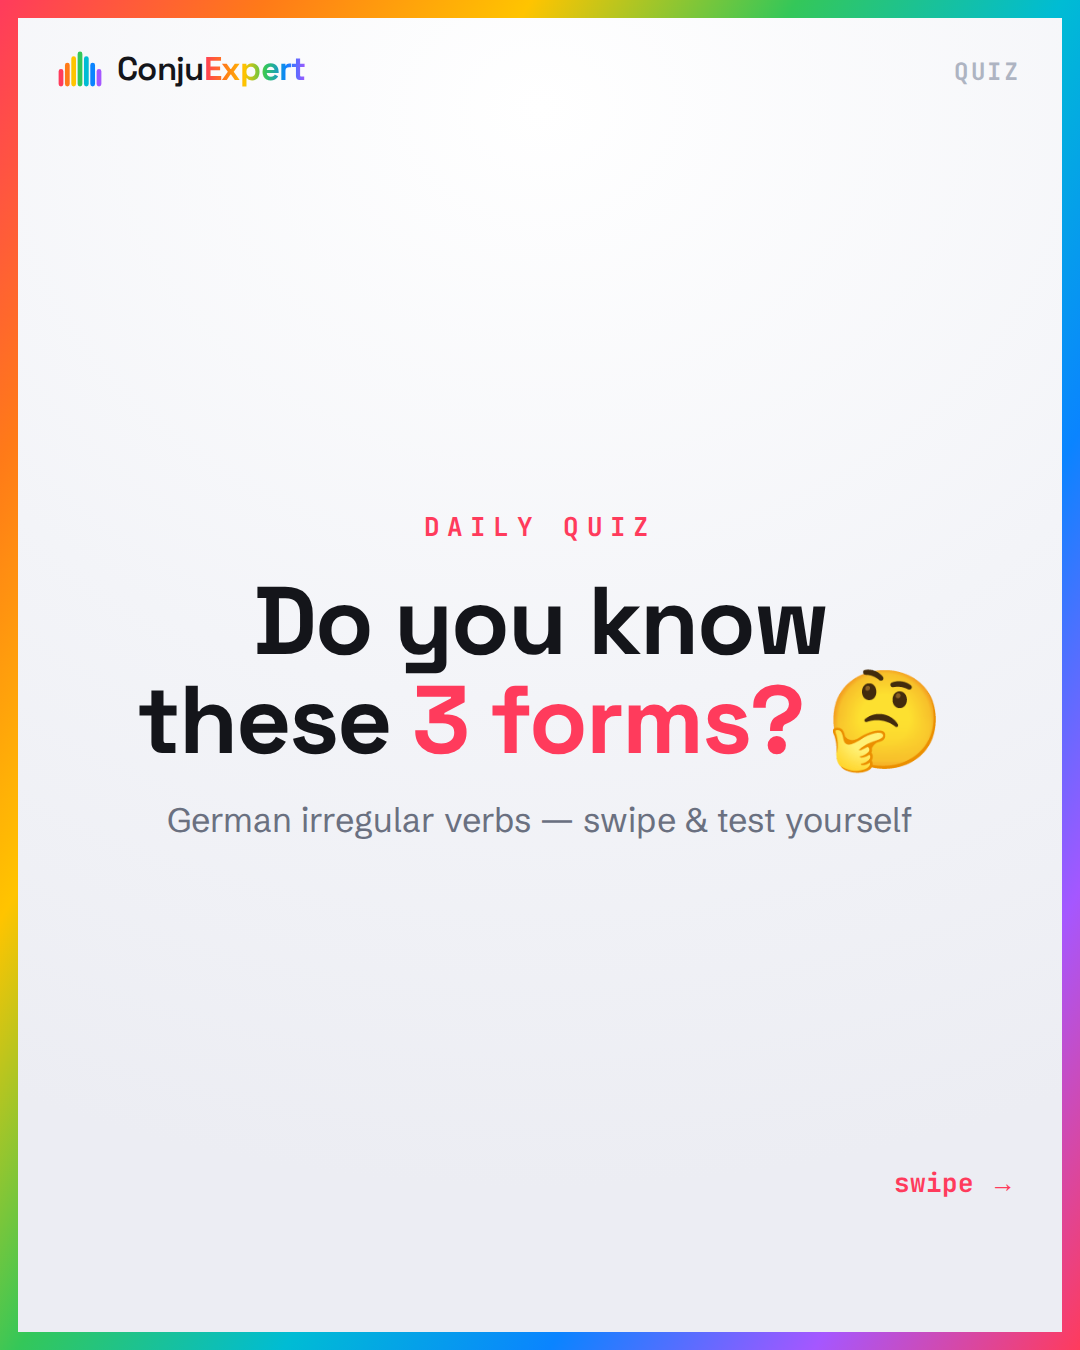
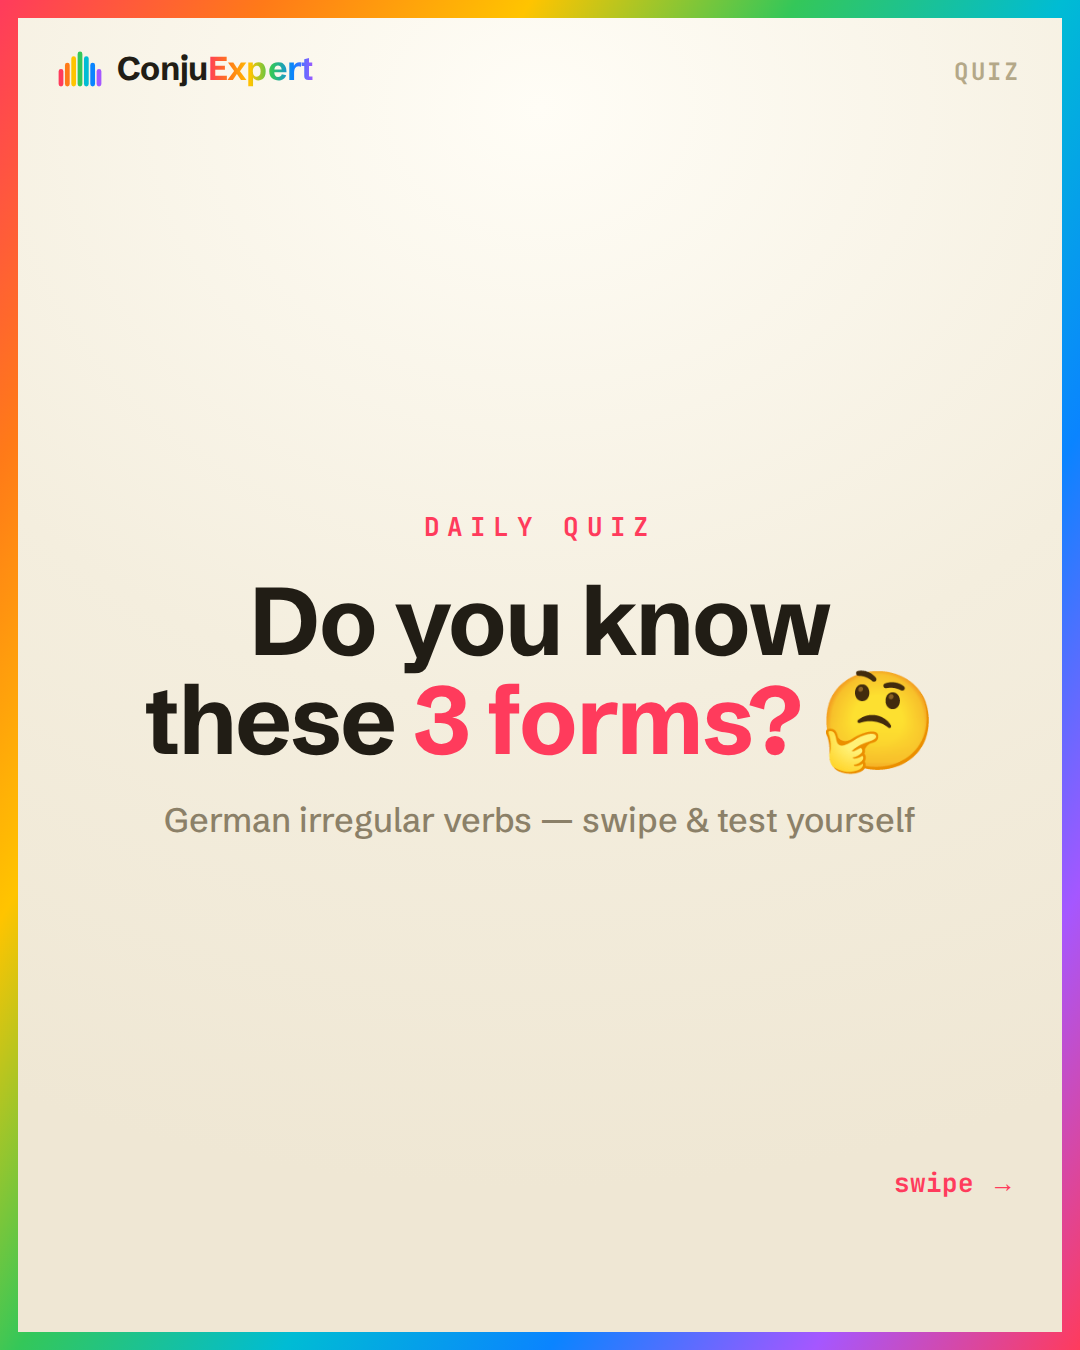
Quiz carousels re-skinned to sand brand (rainbow-edge cards, warm ink, red accent) + re-render 3 sets
Claude-Session: https://claude.ai/code/session_012MsfUjoW2VLVF4WKvfLHyS

diff --git a/scripts/social/quiz-carousel/template.html b/scripts/social/quiz-carousel/template.html
@@ -3,50 +3,52 @@
 @font-face{font-family:'SB';src:url('assets/schib.woff2') format('woff2');font-weight:400 700;font-display:block}
 @font-face{font-family:'JB';src:url('assets/mono.woff2') format('woff2');font-weight:400 700;font-display:block}
 *{margin:0;padding:0;box-sizing:border-box}
-:root{--ink:#14151a;--red:#ff3b5c;--rainbow:linear-gradient(90deg,#ff3b5c,#ff7a18,#ffc400,#34c759,#0a84ff,#a557ff);
+:root{--ink:#211d15;--muted:#8b8068;--muted2:#b4a888;--surface:#fffdf6;--surface-2:#ece3d0;--bg:#f4eede;--border:rgba(60,48,24,.14);
+  --red:#ff3b5c;--rainbow:linear-gradient(90deg,#ff3b5c,#ff7a18,#ffc400,#34c759,#0a84ff,#a557ff);
   --rainbow-full:linear-gradient(120deg,#ff3b5c,#ff7a18,#ffc400,#34c759,#00bcd4,#0a84ff,#a557ff,#ff3b5c)}
-body{background:#e9eaf0;font-family:'SB',sans-serif}
+body{background:var(--bg);font-family:'SB',sans-serif}
 #stage{display:flex;flex-wrap:wrap;gap:20px;padding:20px}
 .slide{position:relative;width:1080px;height:1350px;overflow:hidden;background:
-  radial-gradient(120% 80% at 50% 8%,#fff 0%,#f3f4f8 55%,#ecedf3 100%);display:flex;flex-direction:column;align-items:center;justify-content:center;text-align:center;padding:0 96px}
+  radial-gradient(120% 80% at 50% 8%,#fffdf6 0%,#f4eede 55%,#efe7d4 100%);display:flex;flex-direction:column;align-items:center;justify-content:center;text-align:center;padding:0 96px}
 .rframe{position:absolute;inset:0;z-index:20;pointer-events:none;padding:18px;background:var(--rainbow-full);background-size:100% 100%;
   -webkit-mask:linear-gradient(#000 0 0) content-box,linear-gradient(#000 0 0);-webkit-mask-composite:xor;mask-composite:exclude;
   filter:drop-shadow(0 0 12px rgba(255,122,24,.5)) drop-shadow(0 0 24px rgba(10,132,255,.4))}
 .logo{position:absolute;top:48px;left:56px;display:flex;align-items:center;gap:13px;z-index:8}
 .logo .mark{width:48px;height:38px}
-.logo .w{font-family:'SG';font-weight:600;font-size:33px;letter-spacing:-.02em;color:var(--ink)}
-.logo .w b{font-weight:700;background:var(--rainbow);-webkit-background-clip:text;background-clip:text;color:transparent}
-.pg{position:absolute;top:56px;right:60px;z-index:8;font-family:'JB';font-weight:700;font-size:24px;letter-spacing:.1em;color:#aeb4c2}
+.logo .w{font-family:'SB';font-weight:700;font-size:33px;letter-spacing:-.02em;color:var(--ink)}
+.logo .w b{font-weight:800;background:var(--rainbow);-webkit-background-clip:text;background-clip:text;color:transparent}
+.pg{position:absolute;top:56px;right:60px;z-index:8;font-family:'JB';font-weight:700;font-size:24px;letter-spacing:.1em;color:var(--muted2)}
 .eyebrow{font-family:'JB';font-weight:700;font-size:26px;letter-spacing:.28em;text-transform:uppercase;color:var(--red);margin-bottom:28px}
 .signoff{position:absolute;left:0;right:0;bottom:74px;z-index:8;text-align:center;font-family:'JB';font-weight:700;font-size:29px;color:var(--ink)}
-.signoff .app{background:var(--ink);color:#fff;padding:9px 20px;border-radius:999px}
+.signoff .app{background:var(--ink);color:var(--surface);padding:9px 20px;border-radius:999px}
 .swipe{position:absolute;right:64px;bottom:150px;z-index:8;font-family:'JB';font-weight:700;font-size:26px;color:var(--red)}
 /* intro */
-h1{font-family:'SG';font-weight:700;font-size:96px;line-height:1.03;letter-spacing:-.02em;color:var(--ink)}
+h1{font-family:'SB';font-weight:800;font-size:96px;line-height:1.03;letter-spacing:-.02em;color:var(--ink)}
 h1 .r{color:var(--red)}
-.sub{font-family:'SB';font-size:34px;color:#6a7080;margin-top:30px}
-/* quiz card (mirrors the app) */
-.qcard{width:820px;background:#fff;border-radius:34px;padding:56px 48px;box-shadow:0 34px 80px -26px rgba(20,22,30,.45);border-top:10px solid var(--red)}
-.asked{font-family:'SB';font-size:34px;color:#8890a0}
+.sub{font-family:'SB';font-weight:500;font-size:34px;color:var(--muted);margin-top:30px}
+/* quiz card (mirrors the app) — sand surface, rainbow top edge, red accents */
+.qcard{position:relative;width:820px;background:var(--surface);border:1px solid var(--border);border-radius:34px;padding:64px 48px 56px;box-shadow:0 34px 80px -26px rgba(70,55,25,.4);overflow:hidden}
+.qcard::before,.acard::before{content:"";position:absolute;top:0;left:0;right:0;height:10px;background:var(--rainbow)}
+.asked{font-family:'SB';font-weight:500;font-size:34px;color:var(--muted)}
 .asked b{color:var(--red);font-weight:700}
-.verb{font-family:'SG';font-weight:700;font-size:104px;letter-spacing:-.02em;color:var(--ink);margin:30px 0 18px}
-.hint{font-family:'JB';font-weight:700;font-size:26px;color:#aeb4c2}
-.think{font-family:'SG';font-weight:700;font-size:46px;color:var(--red);margin-top:34px}
-.langs{margin:22px 0 8px;border-bottom:2px solid #f0f1f5;padding-bottom:26px;display:flex;flex-direction:column;gap:13px;text-align:left}
-.langs .cap{font-family:'JB';font-weight:700;font-size:20px;letter-spacing:.14em;text-transform:uppercase;color:#aeb4c2;margin-bottom:4px}
-.langs .lrow{font-family:'SB';font-size:27px;color:#8890a0;display:flex;align-items:center;gap:14px}
-.langs .chip{font-family:'JB';font-weight:700;font-size:20px;color:var(--ink);background:#f3f4f8;border-radius:8px;padding:5px 11px;min-width:52px;text-align:center}
+.verb{font-family:'SB';font-weight:800;font-size:104px;letter-spacing:-.02em;color:var(--ink);margin:30px 0 18px}
+.hint{font-family:'JB';font-weight:700;font-size:26px;color:var(--muted2)}
+.think{font-family:'SB';font-weight:800;font-size:46px;color:var(--red);margin-top:34px}
+.langs{margin:22px 0 8px;border-bottom:2px solid var(--border);padding-bottom:26px;display:flex;flex-direction:column;gap:13px;text-align:left}
+.langs .cap{font-family:'JB';font-weight:700;font-size:20px;letter-spacing:.14em;text-transform:uppercase;color:var(--muted2);margin-bottom:4px}
+.langs .lrow{font-family:'SB';font-weight:500;font-size:27px;color:var(--muted);display:flex;align-items:center;gap:14px}
+.langs .chip{font-family:'JB';font-weight:700;font-size:20px;color:var(--ink);background:var(--surface-2);border-radius:8px;padding:5px 11px;min-width:52px;text-align:center}
 .langs .lw{color:var(--ink);font-weight:700}
 /* answer */
-.acard{width:820px;background:#fff;border-radius:34px;padding:56px 48px;box-shadow:0 34px 80px -26px rgba(20,22,30,.45);border-top:10px solid var(--red)}
-.small{font-family:'SB';font-size:32px;color:#8890a0}
+.acard{position:relative;width:820px;background:var(--surface);border:1px solid var(--border);border-radius:34px;padding:64px 48px 56px;box-shadow:0 34px 80px -26px rgba(70,55,25,.4);overflow:hidden}
+.small{font-family:'SB';font-weight:500;font-size:32px;color:var(--muted)}
 .form{font-family:'JB';font-weight:700;font-size:84px;color:var(--ink);margin:26px 0 6px}
-.form .hl{background:#ffe9ee;color:var(--red);padding:2px 14px;border-radius:12px}
-.tip{font-family:'SB';font-size:30px;color:#6a7080;margin-top:26px}
-.check{font-family:'SG';font-weight:700;font-size:40px;color:var(--red);margin-top:28px}
+.form .hl{background:#ffe3ea;color:var(--red);padding:2px 14px;border-radius:12px}
+.tip{font-family:'SB';font-weight:500;font-size:30px;color:var(--muted);margin-top:26px}
+.check{font-family:'SB';font-weight:800;font-size:40px;color:var(--red);margin-top:28px}
 .betabox{margin-top:44px;font-family:'JB';font-weight:700;font-size:40px;color:var(--ink);line-height:1.4}
 .betabox .code{background:var(--red);color:#fff;padding:8px 20px;border-radius:12px}
-.appline{margin-top:30px;font-family:'JB';font-weight:700;font-size:30px;letter-spacing:.02em;color:#8890a0}
+.appline{margin-top:30px;font-family:'JB';font-weight:700;font-size:30px;letter-spacing:.02em;color:var(--muted)}
 </style></head>
 <body><div id="stage"></div>
 <script>

diff --git a/social-content/WEEK-01-schedule.md b/social-content/WEEK-01-schedule.md
@@ -7,10 +7,10 @@
 |-----|-------|------|-------|------|-----------|
 | Sa | 18.07. | 🟡 Typisch „nicht meckern" | `brand-meckern` ✅ live | neu ✅ | IG + TikTok |
 | Mo | 20.07. | 🟡 Typisch „nicht mein Bier" 🍺 | `brand-bier` | neu ✅ | IG + TikTok |
-| Di | 21.07. | 🔴 Quiz „Basics" (nehmen·gehen·sein) | `quiz-basics` | rot (Bestand) | IG Carousel |
+| Di | 21.07. | 🔴 Quiz „Basics" (nehmen·gehen·sein) | `quiz-basics` | neu ✅ (sand) | IG Carousel |
 | Mi | 22.07. | 🟡 Typisch „auf den Keks" 🍪 | `brand-keks` | neu ✅ | IG + TikTok |
-| Do | 23.07. | 🔴 Quiz „Irregular" (fahren·essen·haben) | `quiz-irregular` | rot (Bestand) | IG Carousel |
-| Fr | 24.07. | 🔴 Quiz „Modals" (können·anrufen·werden) | `quiz-modals` | rot (Bestand) | IG Carousel |
+| Do | 23.07. | 🔴 Quiz „Irregular" (fahren·essen·haben) | `quiz-irregular` | neu ✅ (sand) | IG Carousel |
+| Fr | 24.07. | 🔴 Quiz „Modals" (können·anrufen·werden) | `quiz-modals` | neu ✅ (sand) | IG Carousel |
 
 **Alle Reels:** eigenes designtes Cover (Startbild) + lizenzfreier Musik-Bed.
 **Alle Posts:** Caption mit ConjuExpert-Erklärung + Beta-Hinweis + Code FEEDBACK100.
